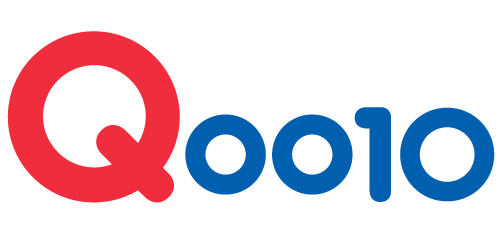
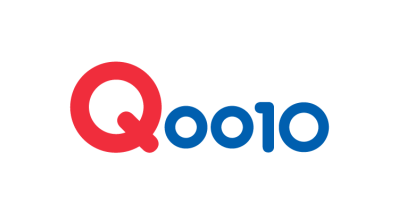
image optimization @create sales channel

Changed region(s): [[0.0, 0.1076, 0.995, 0.8341]]

diff --git a/src/components/Settings/SalesChannel.vue b/src/components/Settings/SalesChannel.vue
@@ -67,7 +67,7 @@
                   <td class="has_img">
                     <img v-if="channel.sales_channel.channel_name == 'Offline Store' || channel.sales_channel.channel_name == 'Website' || channel.sales_channel.channel_name == 'Bazaar' " :src="image_logo_medium">
                     <img v-else-if="channel.sales_channel.channel_name == 'SMS'">
-                    <img v-else :src="`/static/images/sales-channel/${channel.sales_channel.channel_name.toLowerCase()}.png`">
+                    <img v-else :src="`/static/images/sales-channel/${channel.sales_channel.channel_name.toLowerCase()}.png`" style="height:60px">
                   </td>
                   <td>{{ channel.sales_channel.channel_name }}</td>
                   <td>{{ channel.store_name }}</td>
